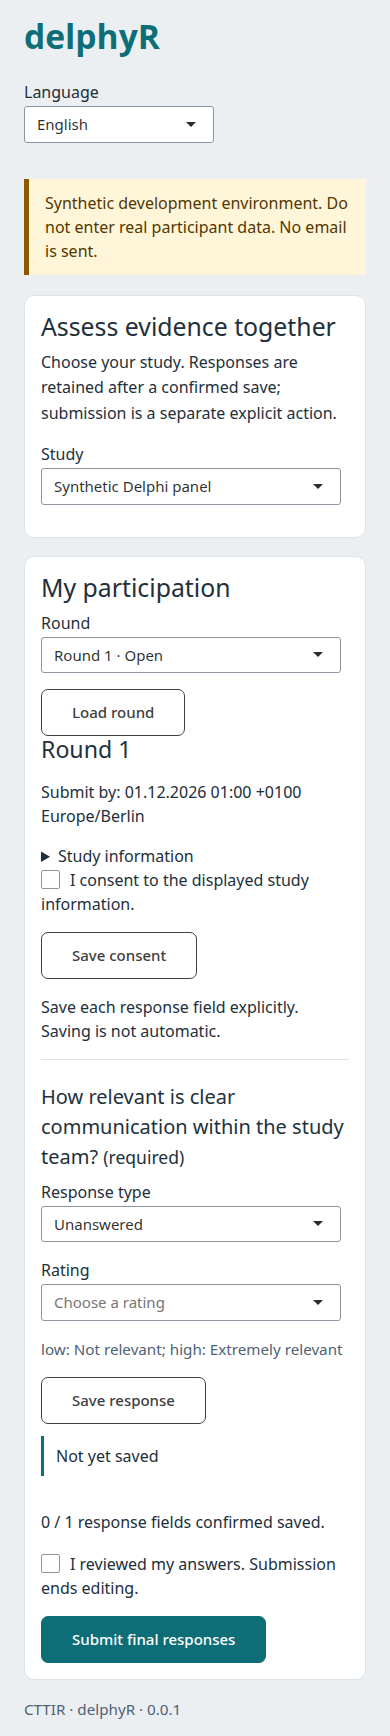
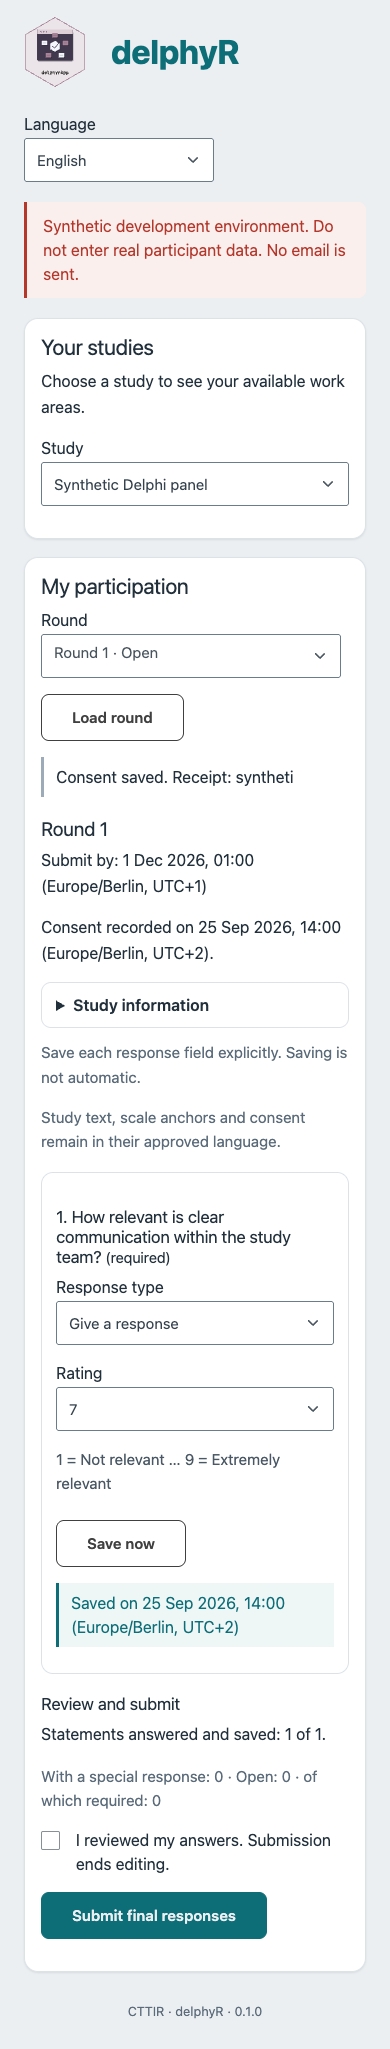
Show the current panel interface in the delphyrApp screenshots

Changed region(s): [[0.0615, 0.0, 0.9538, 0.9954], [0.8, 0.6843, 0.8615, 0.7154], [0.8308, 0.4355, 0.8615, 0.4666]]

diff --git a/packages/delphyrApp/inst/qa/README.md b/packages/delphyrApp/inst/qa/README.md
@@ -64,6 +64,14 @@ interface correctly identifies its fallback to the approved English wording.
 This check does not qualify PostgreSQL persistence, authentication, external
 messages, every workflow, other browsers, or assistive technologies.
 
+Figures recaptured on 23 November 2026, delphyrApp 0.1.0: `panel-desktop.png`
+(1100 pixels wide; also the README figure) and `panel-mobile.png` (390 pixels
+wide) show this fixture in headless Chrome 157.0.8103.79 on macOS after
+consent and one saved rating. English, German and French views, the receipt
+after submission and both widths were inspected; the document width equalled
+the viewport in every view. The manager figures still show the interface of
+version 0.0.1, because their capture needs the PostgreSQL fixture.
+
 ## PostgreSQL browser path
 
 A separate real-database Chromium check passed on 2026-09-25 at 09:28 UTC.

diff --git a/packages/delphyrApp/NEWS.md b/packages/delphyrApp/NEWS.md
@@ -16,6 +16,9 @@
   package. The package carries the full licence text in `LICENSE.md`.
 * The reference index and the article index of the site have English group
   titles with one-line descriptions.
+* The panel screenshots in the README and in `inst/figures` show the current
+  interface (logo, consent buttons, a saved response with its receipt) instead
+  of the interface of version 0.0.1.
 
 # delphyrApp 0.0.2
 
